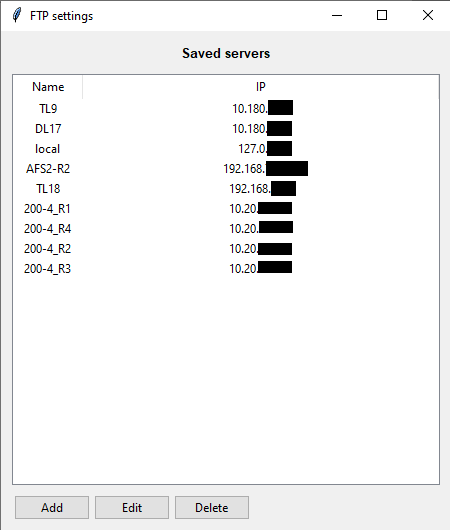
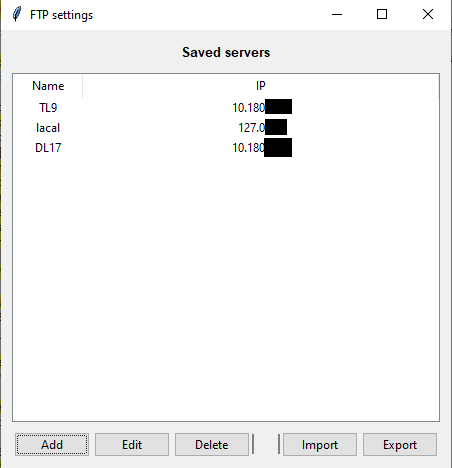
fix3.6.7#correct README and screenshots

diff --git a/README.md b/README.md
@@ -2,7 +2,7 @@
 
 ![Screenshot](resources/screenshots/workspace_screenshot.png)
 
-A program for viewing, downloading, editing and sending LS (TP) files of FANUC robots, as well as for compilation.kl files.
+A program for viewing, downloading, editing and sending LS (TP) and PC (KL) files of FANUC robots, as well as for backup from robot.
 
 ## Features
 
@@ -17,8 +17,9 @@ A program for viewing, downloading, editing and sending LS (TP) files of FANUC r
 - Editing the header information of an ls file (Edit -> LS -> Configure the file)
 - Program search (Ctrl+F)
 - The ability to download a backup (Robot -> Robot backup)
+- Import\export saved servers
 
-# ROBOT INFORMATION
+## ROBOT INFORMATION
 
 To compile the files, information about the robot from <ins>ROGOBUIDE</ins> **v9.10** model **R-2000iC 210F** is used. If you need to replace the virtual robot, then take the Robot_1 folder from the roboguide project and replace it in the resources folder.
 
@@ -35,15 +36,13 @@ cd fanuc-ide
 python main.py
 ```
 
+- You can also [download .exe](https://github.com/da-ya08/FANUC-IDE/releases) (poratable or setup).
+
 ## Robot settings
 
 - You need to set up an **FTP** password on the robot (*or, as in my case, remove FTP authorization*)
 - Have an ethernet connection to the robot
 - Use this data in this application
-
-## Get .exe
-
-You can also [download .exe](https://github.com/da-ya08/FANUC-IDE/releases).
 
 ## Usage
 
